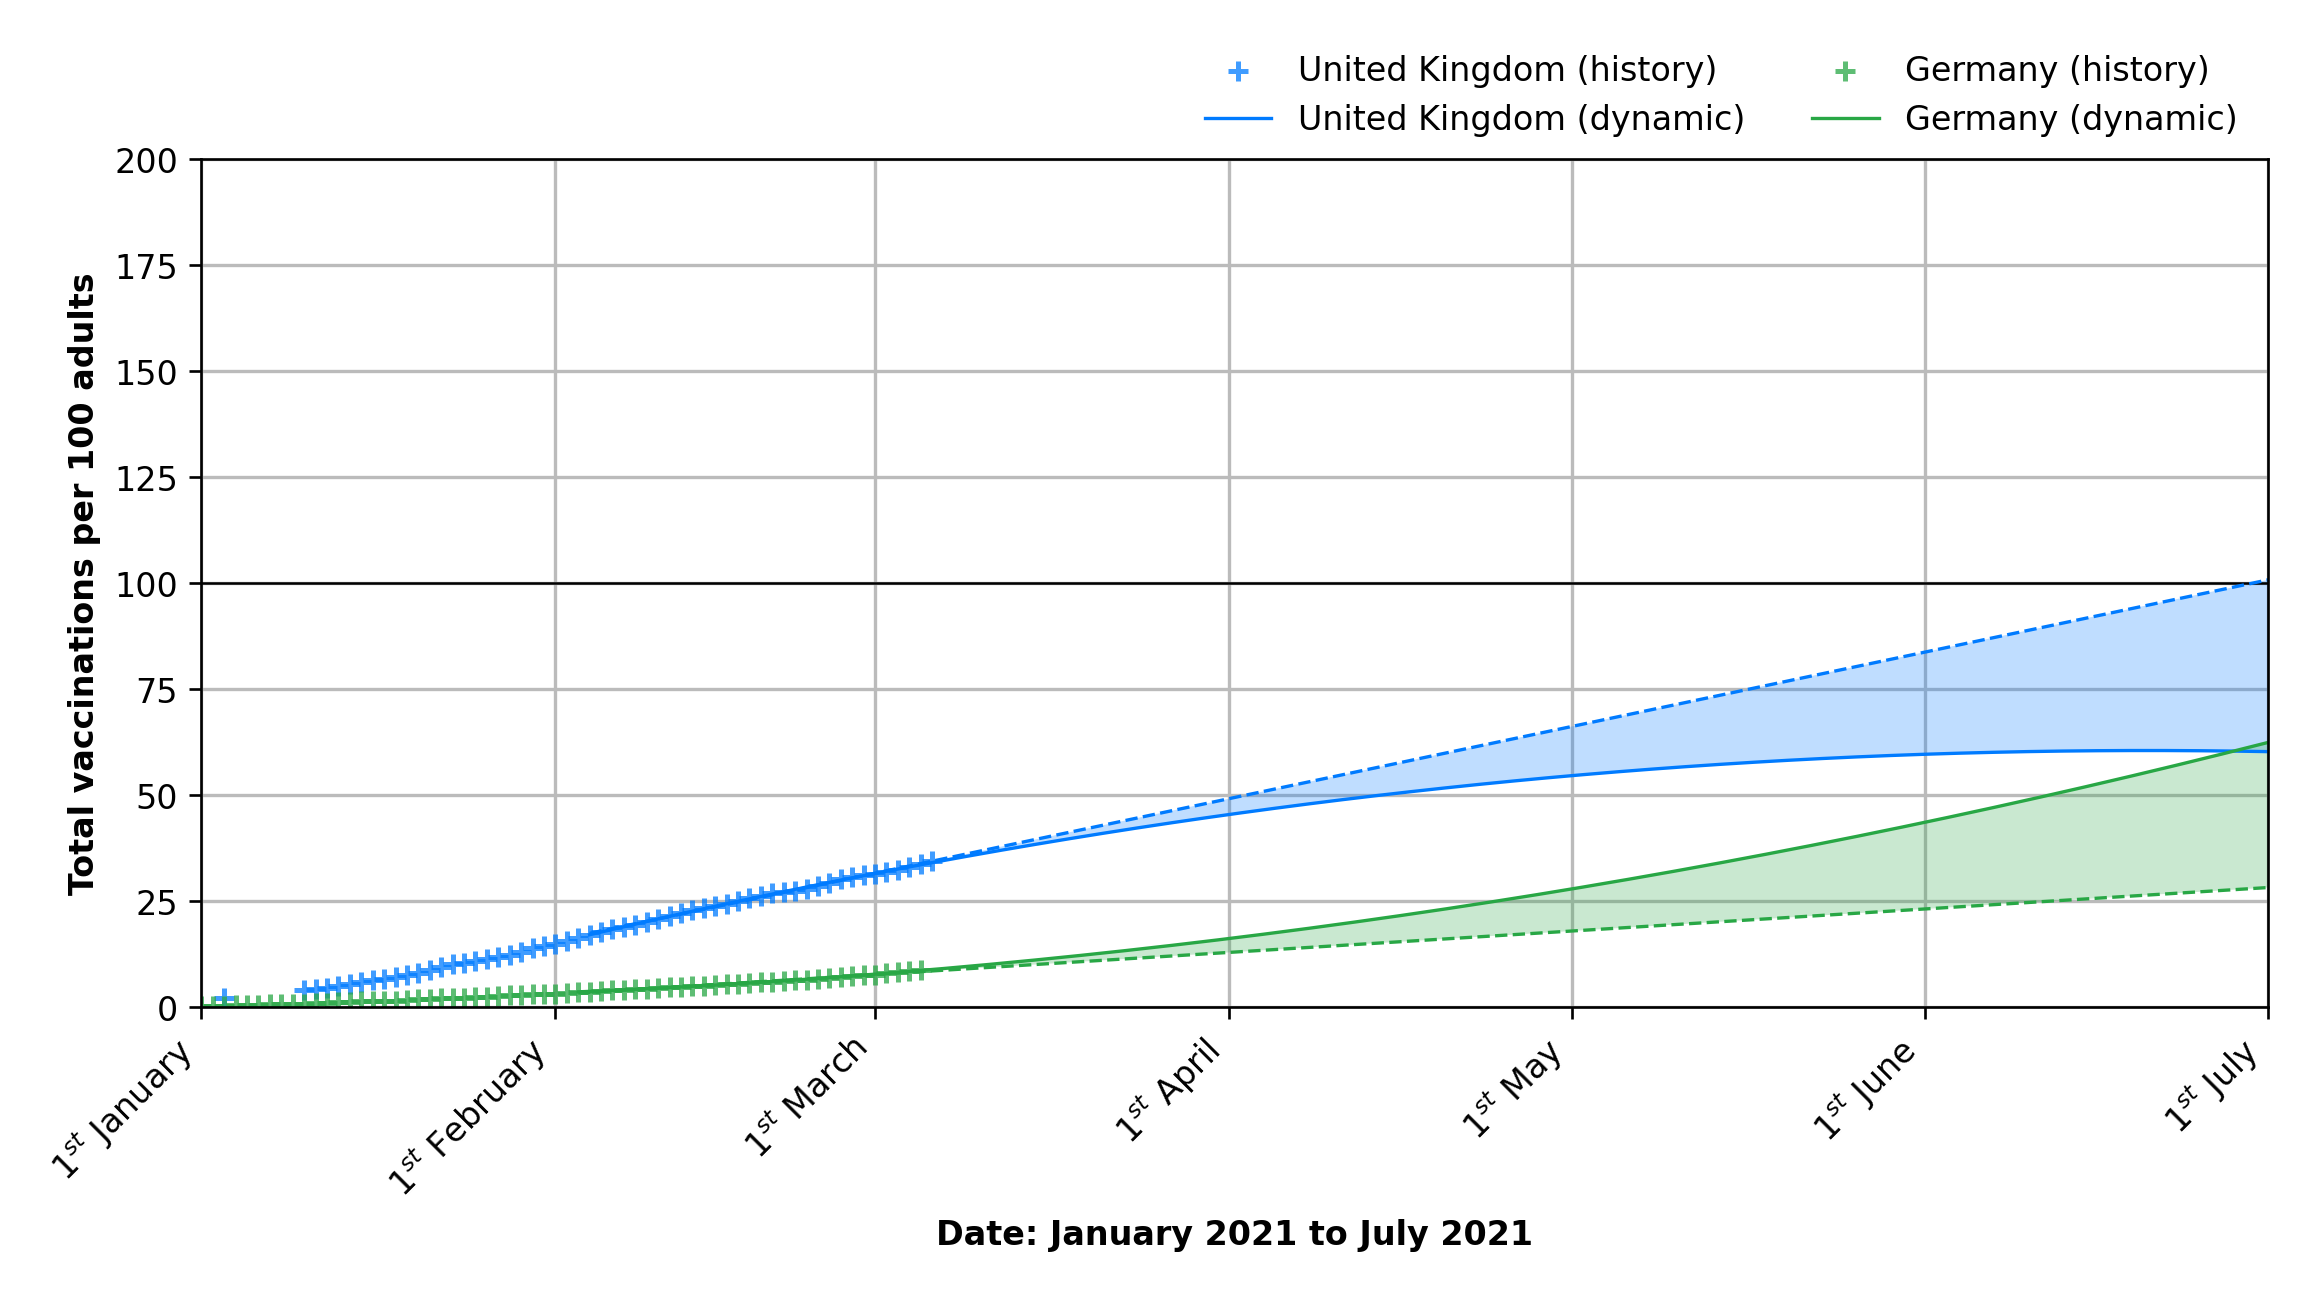
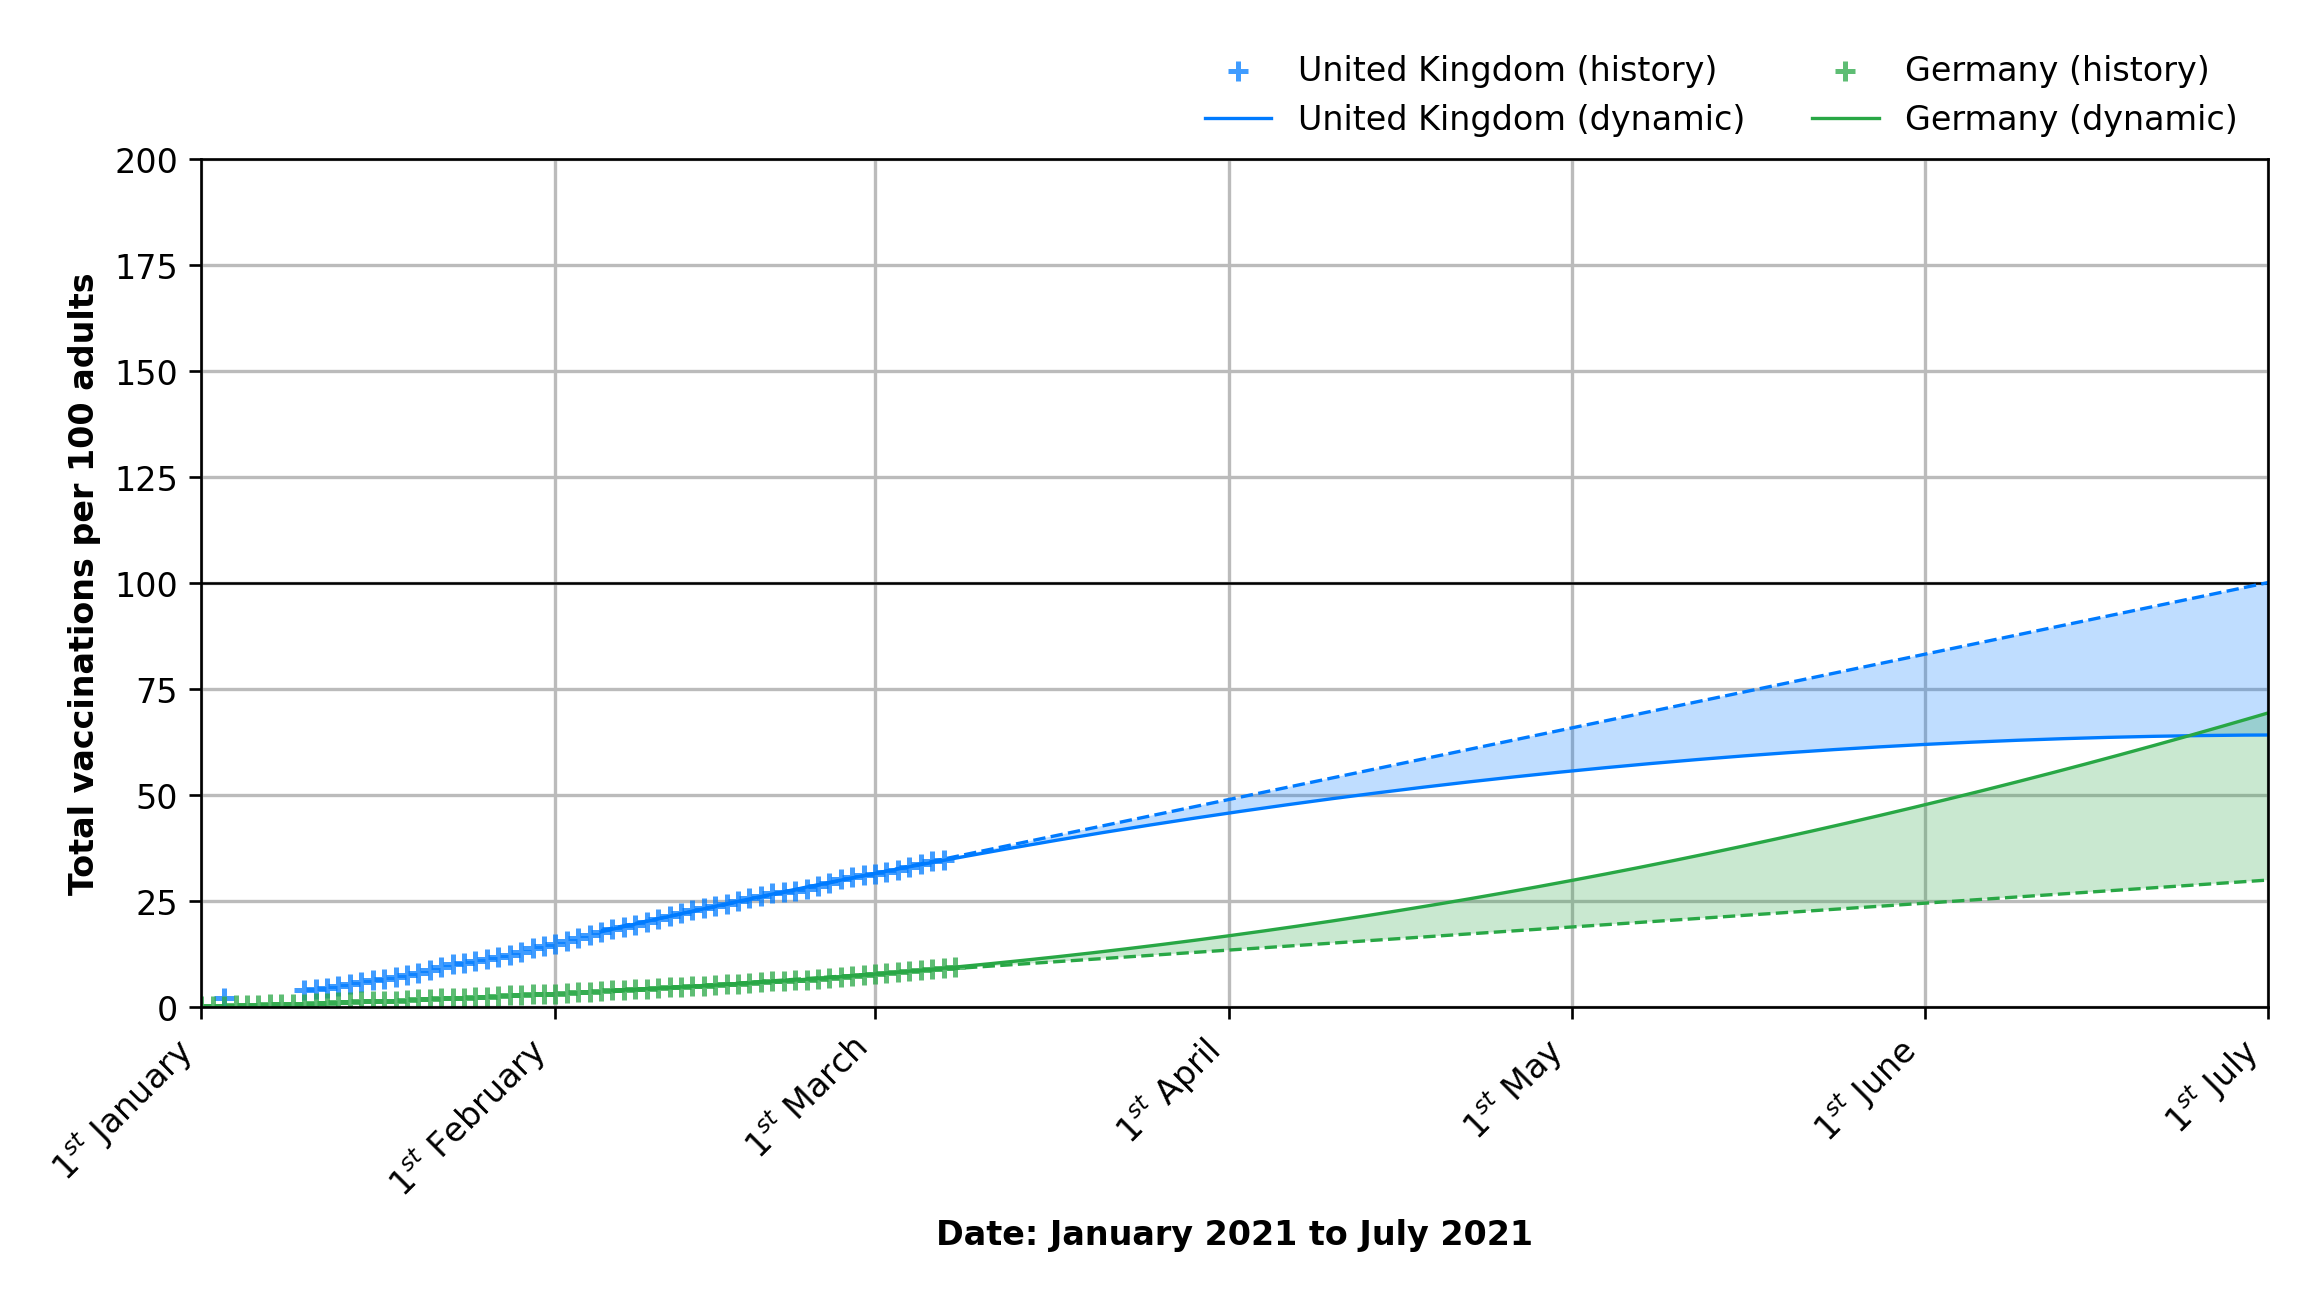
Deploying to gh-pages from @ lambdapioneer/vactrend@1b8b436be16664886d7738f8712cdc14d83be6f4 🚀

diff --git a/index.html b/index.html
@@ -37,13 +37,13 @@
                 <div class="card">
                     <div class="card-header">🇬🇧 United Kingdom</div>
                     <div class="card-body">
-                        <h3 class="font-weight-bold" style="color: #007bff">34.37 <small>(+0.66/d)</small></h3>
+                        <h3 class="font-weight-bold" style="color: #007bff">34.65 <small>(+0.28/d)</small></h3>
                         <p class="mt-n2">Vaccinations per 100 adults</p>
-                        <h3 class=" font-weight-bold">30 June 2021</h3>
+                        <h3 class=" font-weight-bold">01 July 2021</h3>
                         <p class="mt-n2">Earliest day: 100 vacc. per 100 adults</p>
-                        <h3 class=" font-weight-bold">23 December 2021</h3>
+                        <h3 class=" font-weight-bold">26 December 2021</h3>
                         <p class="mt-n2">Earliest day: 200 vacc. per 100 adults</p>
-                        <p class="card-text"><small class="text-muted">Last data from 06 March 2021.</small></p>
+                        <p class="card-text"><small class="text-muted">Last data from 07 March 2021.</small></p>
                     </div>
                 </div>
             </div>
@@ -52,13 +52,13 @@
                 <div class="card">
                     <div class="card-header">🇩🇪 Germany</div>
                     <div class="card-body">
-                        <h3 class="font-weight-bold" style="color: #28a745">8.74 <small>(+0.27/d)</small></h3>
+                        <h3 class="font-weight-bold" style="color: #28a745">9.43 <small>(+0.26/d)</small></h3>
                         <p class="mt-n2">Vaccinations per 100 adults</p>
-                        <h3 class=" font-weight-bold">19 August 2021</h3>
+                        <h3 class=" font-weight-bold">06 August 2021</h3>
                         <p class="mt-n2">Earliest day: 100 vacc. per 100 adults</p>
-                        <h3 class=" font-weight-bold">21 November 2021</h3>
+                        <h3 class=" font-weight-bold">31 October 2021</h3>
                         <p class="mt-n2">Earliest day: 200 vacc. per 100 adults</p>
-                        <p class="card-text"><small class="text-muted">Last data from 05 March 2021.</small></p>
+                        <p class="card-text"><small class="text-muted">Last data from 08 March 2021.</small></p>
                     </div>
                 </div>
             </div>
